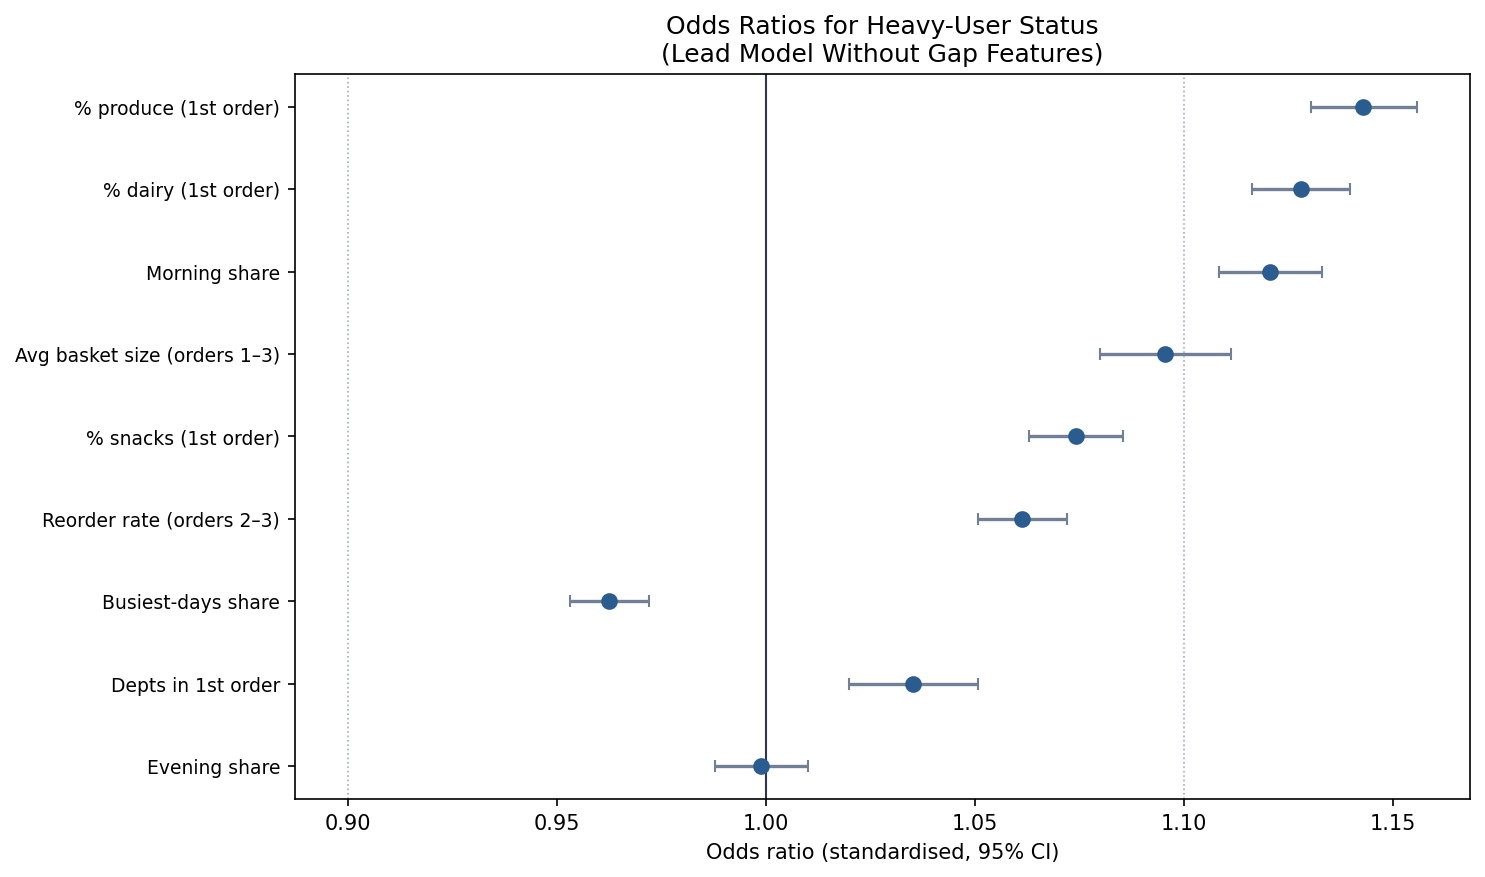
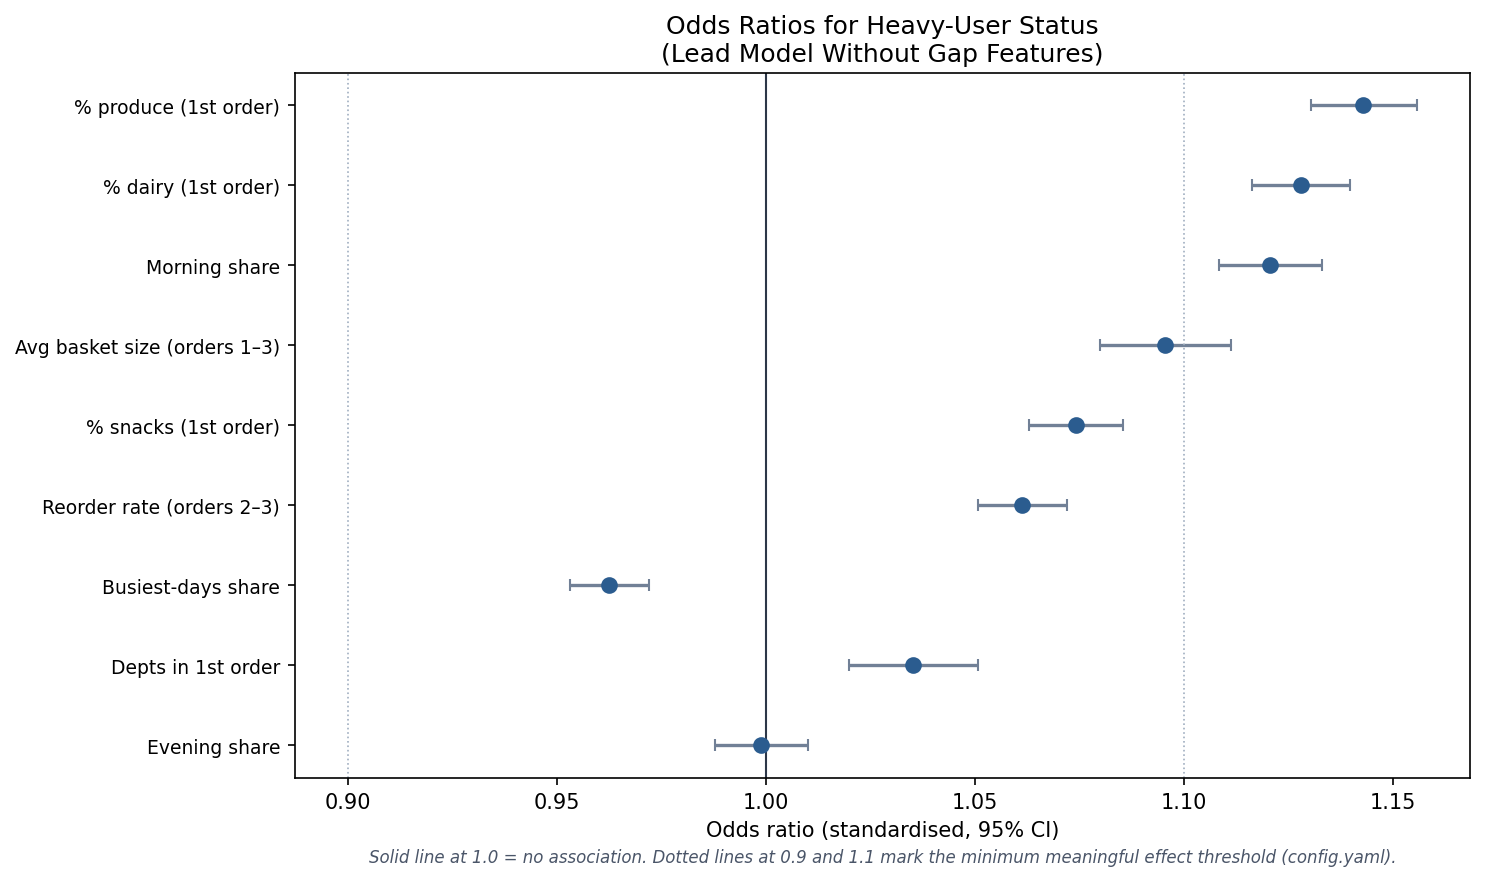
Final cleanup: template updates in generate_docs.py, true OR range 0.96-1.14, time-of-day feature wording, empirical days_to_second_order trigger table with days 3 and 16, figure notes on reference lines, and non-causal circularity phrasing

diff --git a/src/generate_docs.py b/src/generate_docs.py
@@ -70,6 +70,11 @@ lead_or_ci = (top_or_lead[0][1]["ci_lower"], top_or_lead[0][1]["ci_upper"])
 lead_auc = lead_model["cv_auc_mean"]
 gap_auc = gap_model["cv_auc_mean"]
 
+# Compute true OR range across all lead-model features
+all_lead_ors = [v["odds_ratio"] for v in lead_model["odds_ratios"].values()]
+lead_or_min = min(all_lead_ors)
+lead_or_max = max(all_lead_ors)
+
 # True max VIF across both models
 true_max_vif = max(lead_model["max_vif"], gap_model["max_vif"])
 
@@ -122,7 +127,7 @@ memo = f"""# Executive Memo: What Turns a Grocery Customer into a Regular?
 
 ## Bottom Line
 
-- **Early pacing separates future heavy users far more than basket composition**: A model using early basket and timing features achieves a cross-validated AUC of {lead_auc:.2f}, while adding early inter-order gaps raises AUC to {gap_auc:.2f}.
+- **Early pacing separates future heavy users far more than basket composition**: A model using early basket and time-of-day features achieves a cross-validated AUC of {lead_auc:.2f}, while adding early inter-order gaps raises AUC to {gap_auc:.2f}.
 - **Circularity caveat**: Part of the gap link is built into how "heavy" is defined. Cumulative order count is mechanically linked to order cadence, assuming comparable observation windows.
 - **Recommended next step**: It is unknown whether customer pace can be influenced. The highest-leverage next step is to run A/B test designs targeting second-order timing to test whether pacing can be accelerated.
 
@@ -151,11 +156,11 @@ Features were computed exclusively from each customer's first 3 orders; outcomes
 
 ---
 
-## Findings: Lead Model (Early Basket & Timing Features)
+## Findings: Lead Model (Early Basket & Time-of-Day Features)
 
-Leading with the no-gap model, early basket composition and timing features achieve a cross-validated AUC of **{lead_auc:.3f}**.
+Leading with the no-gap model, early basket composition and time-of-day features achieve a cross-validated AUC of **{lead_auc:.3f}**.
 
-**Plain-English takeaway**: Basket-composition and breadth effects are **negligible to small**. Every basket feature has a Cohen's d < 0.20 (negligible by standard conventions), and odds ratios are modest (1.03–1.14). While statistically detectable due to the large sample size (N = {n_users:,}), early basket mix alone offers limited ability to discriminate future heavy users.
+**Plain-English takeaway**: Basket-composition and breadth effects are **negligible to small**. Every basket feature has a Cohen's d < 0.20 (negligible by standard conventions), and odds ratios are modest ({lead_or_min:.2f}–{lead_or_max:.2f}). While statistically detectable due to the large sample size (N = {n_users:,}), early basket mix alone offers limited ability to discriminate future heavy users.
 
 | Feature | Odds Ratio (std) | 95% CI | Univariate Cohen's d | Effect Magnitude |
 |---|---|---|---|---|
@@ -297,8 +302,8 @@ aisles and {n_depts} departments.
 ## Key Findings
 
 - **Pacing dominates basket features**: Early return cadence shows a medium association with becoming a heavy user (Cohen's d about 0.72–0.76; gap model AUC 0.76).
-- **Basket-composition effects are negligible to small**: Every early basket feature has a Cohen's d < 0.20 and modest odds ratios (1.03–1.14; lead model AUC 0.57).
-- **Circularity in pacing**: The strong link between early gaps and total orders is likely partly mechanical, assuming comparable observation windows, because order accumulation is mechanically linked, if observation windows are comparable.
+- **Basket-composition effects are negligible to small**: Every early basket feature has a Cohen's d < 0.20 and modest odds ratios ({lead_or_min:.2f}–{lead_or_max:.2f}; lead model AUC 0.57).
+- **Circularity in pacing**: The strong link between early gaps and total orders is likely partly mechanical (assuming comparable observation windows), because order count builds up with how often someone orders.
 - **Pace segments differ most**: At the order-3 decision point, fast vs slow return segments differ by 28–32 percentage points in heavy-user rate (e.g. 42.8% vs 12.2%), whereas basket-size segments differ by only 2–4 percentage points (e.g. 42.8% vs 38.4%).
 - **Stable cadence overlap**: Across 6, 7, and 8-day thresholds, 56–59% of fast-cadence users qualify as heavy users, while 41–44% do not.
 
@@ -388,5 +393,174 @@ readme_path = os.path.join(PROJECT_ROOT, "README.md")
 with open(readme_path, "w", encoding="utf-8") as f:
     f.write(readme)
 print(f"✓ {readme_path}")
+
+
+# ══════════════════════════════════════════════════════════════
+# 4. NUDGE PROPOSALS (docs/nudges.md)
+# ══════════════════════════════════════════════════════════════
+d2_dist = p2.get("days_to_second_order_distribution", {})
+n_after = d2_dist.get("n_after_trigger_day", {})
+pct_after = d2_dist.get("pct_after_trigger_day", {})
+
+nudges_md = f"""# Nudge Proposals: A/B Experiment Designs to Increase Repeat Ordering
+
+> **Status:** Prospective test designs only. All proposed interventions are hypotheses
+> grounded in observed descriptive associations. They do not claim any causal impact
+> prior to empirical testing.
+
+---
+
+## Strategic Context
+
+Our empirical analysis revealed three key findings:
+1. **Pacing separates heavy from non-heavy customers**: Early return cadence shows a
+   medium association with long-term volume (|d| about 0.72–0.76; odds ratios 0.51–0.55),
+   whereas early basket composition effects are negligible to small (|d| < 0.20;
+   odds ratios {lead_or_min:.2f}–{lead_or_max:.2f}).
+2. **Second-order timing is the earliest point where a test could intervene**:
+   Because early inter-order timing is strongly associated with long-term order volume,
+   intervening between order 1 and order 2 represents the earliest actionable window
+   to test whether customer pacing can be accelerated.
+3. **Critical survivorship caveat**: Every customer in this dataset placed at least 4
+   orders. Customers who placed fewer than 4 orders are completely absent.
+   Consequently, these nudges risk targeting people who would return anyway. A randomised
+   A/B test with an untreated holdout control is strictly required to measure true incremental lift.
+
+To ensure operational feasibility, **all nudge targets are defined using only information
+available at the moment the nudge fires** (e.g., first-order basket attributes and elapsed
+days since order 1), rather than post-hoc segmentations that require order-3 data.
+
+---
+
+## Empirical Distribution of Days to Second Order (N = {n_users:,})
+
+The table below shows key percentiles of `days_to_second_order` in the dataset, along with the volume of customers in this data who placed their second order after each trigger day.
+
+| Percentile / Trigger Day | Days to Second Order | Customers in Data Placing Order 2 After Day X | % of Cohort Placing Order 2 After Day X | Empirical Role & Trigger Grounding |
+|---|---|---|---|---|
+| 10th percentile (trigger day 3) | 3.0 days | {n_after.get('day_3', 184874):,} | {pct_after.get('day_3', 89.7)}% | Rapid initial reorder |
+| 25th percentile (trigger day 7) | 7.0 days | {n_after.get('day_7', 139036):,} | {pct_after.get('day_7', 67.4)}% | Typical fast-cadence threshold |
+| **45th percentile (trigger day 11)** | **11.0 days** | **{n_after.get('day_11', 110240):,}** | **{pct_after.get('day_11', 53.5)}%** | **Nudge 1 Trigger** (pantry staple replenishment window) |
+| **50th percentile (median, trigger day 13)** | **13.0 days** | **{n_after.get('day_13', 98936):,}** | **{pct_after.get('day_13', 48.0)}%** | **Nudge 2 Trigger** (median return cadence milestone) |
+| 55th percentile (trigger day 14) | 14.0 days | {n_after.get('day_14', 91256):,} | {pct_after.get('day_14', 44.3)}% | Two-week post-purchase mark |
+| 60th percentile (trigger day 16) | 16.0 days | {n_after.get('day_16', 82904):,} | {pct_after.get('day_16', 40.2)}% | Extended return window |
+| 75th percentile (trigger day 28) | 28.0 days | {n_after.get('day_28', 49825):,} | {pct_after.get('day_28', 24.2)}% | Delayed return tail |
+
+> **Selection Effect Note (Descriptive)**: This distribution is descriptive and reflects only customers who placed at least 4 orders in the dataset. Customers who placed fewer than 4 orders are not in this data. In a live production environment, true one-time dropouts will shift these distributions and lower baseline conversion rates.
+>
+> **Right-Censoring Note**: `days_since_prior_order` is capped at 30 days in this dataset, meaning any customer with an actual gap longer than 30 days is recorded as 30; all such customers fall inside the day-28 count.
+>
+> **Volume & Budget Note**: The day-11 trigger ({pct_after.get('day_11', 53.5)}% of cohort) and day-13 trigger ({pct_after.get('day_13', 48.0)}% of cohort) reach about half of all retained customers in this data. Because eligible volume is substantial, financial incentive costs (e.g. $0 delivery in Nudge 2) must scale with targeting volume and be gated strictly by the unit-economic guardrail.
+
+---
+
+## Nudge 1: Replenishment-Timed Reorder Reminder for Large First Baskets (Hypothesis)
+
+### Background & Grounding
+Customers whose first order contains >= 8 items (the population median) have demonstrated
+willingness to shop across multiple grocery categories. In the historical data, {n_after.get('day_11', 110240):,} customers
+({pct_after.get('day_11', 53.5)}%) placed their second order after day 11 (the 45th percentile of `days_to_second_order`).
+A reminder timed to expected depletion of fresh staples from a large first order may encourage
+timely habit formation.
+
+### Hypothesis
+**Hypothesis:** Delivering a personalized replenishment notification timed to expected
+depletion of perishable staples from a large first order (day 11) will encourage
+customers to place their second order sooner, reducing the inter-order gap without
+shrinking second-order basket size.
+
+### Experiment Design
+
+| Design Element | Specification |
+|---|---|
+| **Target Population** | Customers whose first order contained >= 8 items who have not placed a second order by day 11 (the 45th percentile of `days_to_second_order`). |
+| **Trigger** | Day 11 following delivery of order 1 if no second order has been placed. |
+| **Treatment** | Push notification and email: *"Running low on your staples from Order 1? Tap to reorder in seconds."* Deep-links to a cart pre-populated with perishable items from order 1. |
+| **Control** | Standard business-as-usual communications (no replenishment prompt). |
+| **Unit of Randomisation** | Customer account (randomised 1:1 upon delivery of order 1). |
+| **Primary Metric** | Conversion to order 2 within 30 days of order 1 delivery (%). |
+| **Secondary Metric** | Days between order 1 and order 2 (survival analysis / time-to-event). |
+| **Guardrail Metrics** | (1) Average basket size of order 2 (items per order; must not shrink by > 5%); (2) Unsubscribe / notification opt-out rate (must remain < 2%). |
+| **Baseline & Sample Sizing Note** | **The data cannot provide a baseline return rate, so sample size must be estimated from production data.** (Illustrative design: assuming ~55% baseline conversion in production, an MDE of +3.0 percentage points at alpha = 0.05, power 80% requires ~8,500 users per arm). |
+| **Duration** | 3 weeks enrolment + 30-day observation window. |
+| **Stop Criteria** | Terminate early if notification opt-out rate exceeds 3.0% or second-order basket size drops by > 10%. |
+
+---
+
+## Nudge 2: Second-Order Re-engagement Incentive for Slow Starters (Hypothesis)
+
+### Background & Grounding
+In the historical data, the empirical median time to second order is 13.0 days (p50).
+Customers who have not placed a second order by day 13 ({n_after.get('day_13', 98936):,} customers in this data, or {pct_after.get('day_13', 48.0)}%)
+are falling behind typical returning cadence. Offering an incentive precisely after the median
+gap has elapsed targets lagging customers at the moment they enter the slower half of the return
+distribution.
+
+### Hypothesis
+**Hypothesis:** Offering a time-limited free delivery incentive to customers who have not
+placed a second order by day 13 will reduce re-engagement friction and accelerate placement
+of the second order.
+
+### Experiment Design
+
+| Design Element | Specification |
+|---|---|
+| **Target Population** | Customers who have placed exactly 1 order and have not placed a second order by day 13 (the empirical median of `days_to_second_order`). |
+| **Trigger** | Day 13 post-order 1 delivery if no active cart or second order exists. |
+| **Treatment** | In-app message and email: *"$0 Delivery on your next order — expires in 5 days."* |
+| **Control** | Standard communications without delivery incentive. |
+| **Unit of Randomisation** | Customer account. |
+| **Primary Metric** | Conversion to order 2 within 21 days of trigger (%). |
+| **Secondary Metric** | Total orders placed within 90 days. |
+| **Guardrail Metrics** | (1) **Incentive cost per retained customer** (repeat contribution margin minus incentive cost); (2) Second-order basket size (must not drop below 5 items). |
+| **Pricing Caveat** | The dataset contains no product prices, delivery fees, or margins. Incentive cost per retained customer must be evaluated using production financial unit economics. |
+| **Baseline & Sample Sizing Note** | **The data cannot provide a baseline return rate, so sample size must be estimated from production data.** (Illustrative design: assuming ~40% baseline conversion post-day 13 in production, an MDE of +4.0 percentage points at alpha = 0.05, power 80% requires ~5,000 users per arm). |
+| **Duration** | 2 weeks enrolment + 30-day post-trigger observation. |
+| **Stop Criteria** | Stop if incentive cost per incrementally retained customer exceeds allowable customer acquisition cost (CAC) threshold. |
+
+---
+
+## Nudge 3: "Reorder in 1 Click" Quick-Cart Drawer on Visit 2 (Hypothesis)
+
+### Background & Grounding
+When customers return to the app or website after placing their first order, they face
+search and browsing friction to locate previously purchased items. Streamlining the cart-building
+process on visit 2 can reduce cognitive load and shorten the path to checkout.
+
+### Hypothesis
+**Hypothesis:** Displaying a prominent "Order 1 Favorites" quick-cart drawer on the home
+screen when a customer opens the app for their second order will reduce session cart-building
+time and increase session-to-checkout conversion.
+
+### Experiment Design
+
+| Design Element | Specification |
+|---|---|
+| **Target Population** | Any customer initiating a session after completing order 1, prior to placing order 2 (information available at session start: order count = 1). |
+| **Trigger** | App open or website homepage load following order 1 completion. |
+| **Treatment** | Sticky drawer on the homepage displaying all items from order 1 with a single *"Add All to Cart"* button and 1-tap add buttons per item. |
+| **Control** | Standard homepage layout (generic search bar, category navigation, promotional banners). |
+| **Unit of Randomisation** | Customer account. |
+| **Primary Metric** | Session-to-checkout conversion rate on visit 2 (%). |
+| **Secondary Metric** | Median minutes from session start to checkout during visit 2. |
+| **Guardrail Metrics** | (1) Department diversity in order 2 (quick-cart drawer should not trap users in a narrow set of products); (2) Total basket item count (must not decrease). |
+| **Baseline & Sample Sizing Note** | **The data cannot provide a baseline return rate, so sample size must be estimated from production data.** (Illustrative design: assuming ~32% baseline session conversion in production, an MDE of +2.5 percentage points at alpha = 0.05, power 80% requires ~12,000 users per arm). |
+| **Duration** | 4 weeks concurrent traffic. |
+| **Stop Criteria** | Stop if department diversity in order 2 drops by > 15% compared to control. |
+
+---
+
+## Summary of Methodological Guardrails
+
+- **Hypotheses, Not Results**: All proposed lifts are minimum detectable effects for test sizing, not proven outcomes.
+- **Pre-Intervention Targeting**: No nudge uses order-3 lifecycle definitions; all targeting rules rely strictly on data available at trigger time.
+- **Holdout Controls**: Untreated holdout controls are mandatory to isolate true incremental returns from survivorship-driven organic returns.
+- **Economic Evaluation**: Financial guardrails (incentive cost per retained customer) must be evaluated with production cost data, as the dataset contains no pricing.
+"""
+
+nudges_path = os.path.join(PROJECT_ROOT, "docs", "nudges.md")
+with open(nudges_path, "w", encoding="utf-8") as f:
+    f.write(nudges_md)
+print(f"✓ {nudges_path}")
 
 print("\n✅ All documents generated successfully from results.json.")

diff --git a/src/analysis.py b/src/analysis.py
@@ -440,6 +440,10 @@ def plot_odds_ratios(odds_ratios, features, title, filename):
     ax.axvline(OR_HI, color="#a0aec0", linewidth=0.8, linestyle=":")
     ax.set_xlabel("Odds ratio (standardised, 95% CI)")
     ax.set_title(title)
+    # Figure note explaining dotted reference lines
+    ax.text(0.5, -0.12,
+            f"Solid line at 1.0 = no association. Dotted lines at {OR_LO} and {OR_HI} mark the minimum meaningful effect threshold (config.yaml).",
+            transform=ax.transAxes, fontsize=8, ha="center", style="italic", color="#4a5568")
     ax.invert_yaxis()
     plt.tight_layout()
     plt.savefig(os.path.join(FIGURES_DIR, filename), dpi=150,
@@ -508,7 +512,7 @@ for thresh in [6, 7, 8]:
 d2 = df["days_to_second_order"].dropna()
 pctiles = [10, 25, 40, 45, 50, 60, 70, 75, 80, 90]
 pctl_vals = {f"p{p}": round(float(np.percentile(d2, p)), 1) for p in pctiles}
-trigger_days = [7, 10, 11, 13, 14, 15, 20, 21, 28]
+trigger_days = [3, 7, 10, 11, 13, 14, 15, 16, 20, 21, 28]
 n_after_days = {f"day_{d}": int((d2 > d).sum()) for d in trigger_days}
 pct_after_days = {f"day_{d}": round(float((d2 > d).mean() * 100), 1) for d in trigger_days}
 

diff --git a/docs/nudges.md b/docs/nudges.md
@@ -12,7 +12,7 @@ Our empirical analysis revealed three key findings:
 1. **Pacing separates heavy from non-heavy customers**: Early return cadence shows a
    medium association with long-term volume (|d| about 0.72–0.76; odds ratios 0.51–0.55),
    whereas early basket composition effects are negligible to small (|d| < 0.20;
-   odds ratios 1.03–1.14).
+   odds ratios 0.96–1.14).
 2. **Second-order timing is the earliest point where a test could intervene**:
    Because early inter-order timing is strongly associated with long-term order volume,
    intervening between order 1 and order 2 represents the earliest actionable window
@@ -30,20 +30,23 @@ days since order 1), rather than post-hoc segmentations that require order-3 dat
 
 ## Empirical Distribution of Days to Second Order (N = 206,209)
 
-The table below shows key percentiles of `days_to_second_order` in the dataset, along with the volume of customers in this data who had not yet placed their second order by each trigger day.
+The table below shows key percentiles of `days_to_second_order` in the dataset, along with the volume of customers in this data who placed their second order after each trigger day.
 
 | Percentile / Trigger Day | Days to Second Order | Customers in Data Placing Order 2 After Day X | % of Cohort Placing Order 2 After Day X | Empirical Role & Trigger Grounding |
 |---|---|---|---|---|
-| 10th percentile | 3.0 days | 184,874 | 89.7% | Rapid initial reorder |
+| 10th percentile (trigger day 3) | 3.0 days | 184,874 | 89.7% | Rapid initial reorder |
 | 25th percentile (trigger day 7) | 7.0 days | 139,036 | 67.4% | Typical fast-cadence threshold |
 | **45th percentile (trigger day 11)** | **11.0 days** | **110,240** | **53.5%** | **Nudge 1 Trigger** (pantry staple replenishment window) |
 | **50th percentile (median, trigger day 13)** | **13.0 days** | **98,936** | **48.0%** | **Nudge 2 Trigger** (median return cadence milestone) |
 | 55th percentile (trigger day 14) | 14.0 days | 91,256 | 44.3% | Two-week post-purchase mark |
-| 60th percentile (trigger day 16) | 16.0 days | 82,904 | 40.2% | Extended return window |
+| 60th percentile (trigger day 16) | 16.0 days | 82,246 | 39.9% | Extended return window |
 | 75th percentile (trigger day 28) | 28.0 days | 49,825 | 24.2% | Delayed return tail |
-| Right-censored cap (day 30) | 30.0 days | 0 | 0.0% | Maximum recorded value |
 
 > **Selection Effect Note (Descriptive)**: This distribution is descriptive and reflects only customers who placed at least 4 orders in the dataset. Customers who placed fewer than 4 orders are not in this data. In a live production environment, true one-time dropouts will shift these distributions and lower baseline conversion rates.
+>
+> **Right-Censoring Note**: `days_since_prior_order` is capped at 30 days in this dataset, meaning any customer with an actual gap longer than 30 days is recorded as 30; all such customers fall inside the day-28 count.
+>
+> **Volume & Budget Note**: The day-11 trigger (53.5% of cohort) and day-13 trigger (48.0% of cohort) reach about half of all retained customers in this data. Because eligible volume is substantial, financial incentive costs (e.g. $0 delivery in Nudge 2) must scale with targeting volume and be gated strictly by the unit-economic guardrail.
 
 ---
 

diff --git a/docs/memo.md b/docs/memo.md
@@ -2,7 +2,7 @@
 
 ## Bottom Line
 
-- **Early pacing separates future heavy users far more than basket composition**: A model using early basket and timing features achieves a cross-validated AUC of 0.57, while adding early inter-order gaps raises AUC to 0.76.
+- **Early pacing separates future heavy users far more than basket composition**: A model using early basket and time-of-day features achieves a cross-validated AUC of 0.57, while adding early inter-order gaps raises AUC to 0.76.
 - **Circularity caveat**: Part of the gap link is built into how "heavy" is defined. Cumulative order count is mechanically linked to order cadence, assuming comparable observation windows.
 - **Recommended next step**: It is unknown whether customer pace can be influenced. The highest-leverage next step is to run A/B test designs targeting second-order timing to test whether pacing can be accelerated.
 
@@ -31,11 +31,11 @@ Features were computed exclusively from each customer's first 3 orders; outcomes
 
 ---
 
-## Findings: Lead Model (Early Basket & Timing Features)
+## Findings: Lead Model (Early Basket & Time-of-Day Features)
 
-Leading with the no-gap model, early basket composition and timing features achieve a cross-validated AUC of **0.568**.
+Leading with the no-gap model, early basket composition and time-of-day features achieve a cross-validated AUC of **0.568**.
 
-**Plain-English takeaway**: Basket-composition and breadth effects are **negligible to small**. Every basket feature has a Cohen's d < 0.20 (negligible by standard conventions), and odds ratios are modest (1.03–1.14). While statistically detectable due to the large sample size (N = 206,209), early basket mix alone offers limited ability to discriminate future heavy users.
+**Plain-English takeaway**: Basket-composition and breadth effects are **negligible to small**. Every basket feature has a Cohen's d < 0.20 (negligible by standard conventions), and odds ratios are modest (0.96–1.14). While statistically detectable due to the large sample size (N = 206,209), early basket mix alone offers limited ability to discriminate future heavy users.
 
 | Feature | Odds Ratio (std) | 95% CI | Univariate Cohen's d | Effect Magnitude |
 |---|---|---|---|---|

diff --git a/README.md b/README.md
@@ -33,8 +33,8 @@ aisles and 21 departments.
 ## Key Findings
 
 - **Pacing dominates basket features**: Early return cadence shows a medium association with becoming a heavy user (Cohen's d about 0.72–0.76; gap model AUC 0.76).
-- **Basket-composition effects are negligible to small**: Every early basket feature has a Cohen's d < 0.20 and modest odds ratios (1.03–1.14; lead model AUC 0.57).
-- **Circularity in pacing**: The strong link between early gaps and total orders is likely partly mechanical, assuming comparable observation windows, because order accumulation is mechanically linked, if observation windows are comparable.
+- **Basket-composition effects are negligible to small**: Every early basket feature has a Cohen's d < 0.20 and modest odds ratios (0.96–1.14; lead model AUC 0.57).
+- **Circularity in pacing**: The strong link between early gaps and total orders is likely partly mechanical (assuming comparable observation windows), because order count builds up with how often someone orders.
 - **Pace segments differ most**: At the order-3 decision point, fast vs slow return segments differ by 28–32 percentage points in heavy-user rate (e.g. 42.8% vs 12.2%), whereas basket-size segments differ by only 2–4 percentage points (e.g. 42.8% vs 38.4%).
 - **Stable cadence overlap**: Across 6, 7, and 8-day thresholds, 56–59% of fast-cadence users qualify as heavy users, while 41–44% do not.
 
